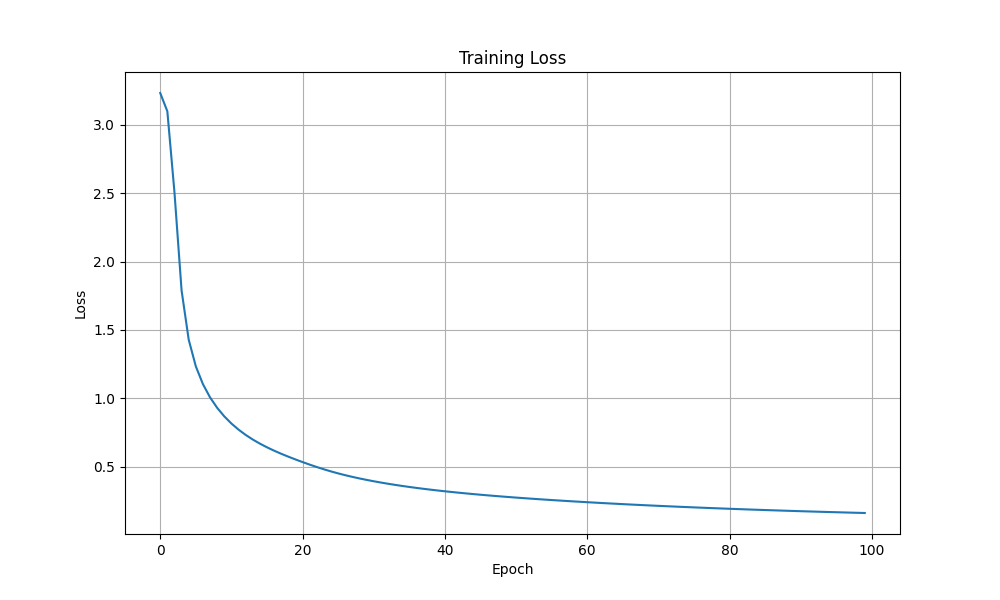
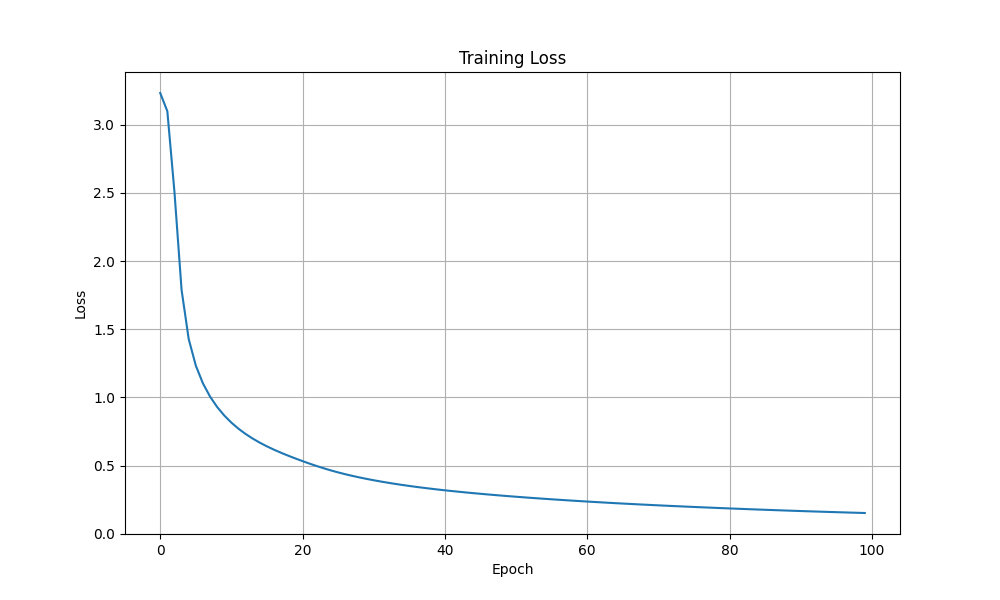
Enhance RNN implementation with detailed comments and improve training loss visualization

diff --git a/Sequence Modeling/RNN/rnn_scratch.py b/Sequence Modeling/RNN/rnn_scratch.py
@@ -11,8 +11,9 @@ T = 3    # Number of time steps
 np.random.seed(0)
 
 # Parameters initialization
+# Initialize with small random values to break symmetry
 W_hx = np.random.randn(n_h, n_x) * 0.01  # Input to hidden layer weights
-W_hh = np.random.randn(n_h, n_h) * 0.01  # Hidden to hidden layer weights
+W_hh = np.random.randn(n_h, n_h) * 0.01  # Hidden to hidden layer weights (recurrent connections)
 W_yh = np.random.randn(n_y, n_h) * 0.01  # Hidden to output layer weights
 
 b_h = np.zeros((n_h, 1))  # Hidden layer bias
@@ -20,57 +21,96 @@ b_y = np.zeros((n_y, 1))  # Output layer bias
 
 # Activation functions
 def tanh(x):
+    # Hyperbolic tangent: tanh(x) = (e^x - e^-x) / (e^x + e^-x)
+    # Range: [-1, 1]
     return np.tanh(x)
 
 def dtanh(x):
+    # Derivative of tanh: d/dx tanh(x) = 1 - tanh(x)^2
     return 1.0 - np.tanh(x) ** 2
 
 def softmax(x):
+    # Softmax function: σ(z)_j = e^(z_j) / Σ_k(e^(z_k))
+    # Subtracting max(x) for numerical stability to avoid overflow
     e_x = np.exp(x - np.max(x, axis=0, keepdims=True))
     return e_x / np.sum(e_x, axis=0, keepdims=True)
 
 def rnn_forward(X, Y):
-    h = {-1: np.zeros((n_h, 1))} # Initial hidden state
+    # Forward pass through the RNN
+    h = {-1: np.zeros((n_h, 1))}  # Initial hidden state h₀ = 0
     a, z, y_hat = {}, {}, {}
     loss = 0
 
     for t in range(T):
-        x_t = X[t].reshape(-1, 1)
+        x_t = X[t].reshape(-1, 1)  # Input at time t
+        
+        # Hidden state update: a_t = W_hx * x_t + W_hh * h_(t-1) + b_h
         a[t] = np.dot(W_hx, x_t) + np.dot(W_hh, h[t-1]) + b_h
+        
+        # Apply tanh activation: h_t = tanh(a_t)
         h[t] = np.tanh(a[t])
+        
+        # Output layer: z_t = W_yh * h_t + b_y
         z[t] = np.dot(W_yh, h[t]) + b_y
+        
+        # Apply softmax for probability distribution: y_hat_t = softmax(z_t)
         y_hat[t] = softmax(z[t])
-        loss += -np.sum(Y[t].reshape(-1, 1) * np.log(y_hat[t] + 1e-8))  # Avoid log(0)
+        
+        # Cross-entropy loss: L_t = -Σ(y_t * log(y_hat_t))
+        # 1e-8 added to avoid log(0)
+        loss += -np.sum(Y[t].reshape(-1, 1) * np.log(y_hat[t] + 1e-8))
 
+    # Save values for backpropagation
     cache = (X, Y, a, h, z, y_hat)
     return loss, cache
 
 def rnn_backward(cache):
+    # Backpropagation through time (BPTT)
     X, Y, a, h, z, y_hat = cache
 
+    # Initialize gradient accumulators
     dW_hx = np.zeros_like(W_hx)
     dW_hh = np.zeros_like(W_hh)
     db_h = np.zeros_like(b_h)
     dW_yh = np.zeros_like(W_yh)
     db_y = np.zeros_like(b_y)
 
+    # Initialize gradient of future hidden state
     dh_next = np.zeros_like(h[0])
     
+    # Iterate backwards through time
     for t in reversed(range(T)):
-        dz = y_hat[t] - Y[t].reshape(-1, 1)  # Gradient of loss w.r.t. z
+        # Gradient of loss w.r.t softmax output: dL/dz_t = y_hat_t - y_t
+        # This is the derivative of cross-entropy loss with softmax
+        dz = y_hat[t] - Y[t].reshape(-1, 1)
+        
+        # Gradient w.r.t W_yh: dL/dW_yh = dL/dz_t * h_t^T
         dW_yh += np.dot(dz, h[t].T)
+        
+        # Gradient w.r.t b_y: dL/db_y = dL/dz_t
         db_y += dz
         
-        dh = np.dot(W_yh.T, dz) + dh_next  # Gradient of loss w.r.t. h
+        # Gradient w.r.t hidden state: dL/dh_t = W_yh^T * dL/dz_t + dL/dh_(t+1)
+        # The second term comes from the recurrent connection (future gradient)
+        dh = np.dot(W_yh.T, dz) + dh_next
+        
+        # Gradient w.r.t pre-activation: dL/da_t = dL/dh_t * tanh'(a_t)
         da = dtanh(a[t]) * dh
+        
+        # Gradient w.r.t W_hh: dL/dW_hh = dL/da_t * h_(t-1)^T
         dW_hh += np.dot(da, h[t-1].T)
+        
+        # Gradient w.r.t W_hx: dL/dW_hx = dL/da_t * x_t^T
         dW_hx += np.dot(da, X[t].reshape(-1, 1).T)
+        
+        # Gradient w.r.t b_h: dL/db_h = dL/da_t
         db_h += da
+        
+        # Gradient for next iteration: dL/dh_(t-1) = W_hh^T * dL/da_t
         dh_next = np.dot(W_hh.T, da)
-        dh_next = dh_next * (1 - np.tanh(a[t]) ** 2)
-        # Note: We do not need to backpropagate through the input layer
-        # as we are not updating W_xh in this example.
-    # Clip gradients to prevent exploding gradients
+        
+    # Clip gradients to prevent exploding gradients problem
+    # This is a common technique in RNN training
     for dparam in [dW_hx, dW_hh, db_h, dW_yh, db_y]:
         np.clip(dparam, -5, 5, out=dparam)
         
@@ -86,11 +126,16 @@ def rnn_backward(cache):
 
 def update_parameters(gradients, learning_rate=0.01):
     """
-    Update the parameters using gradient descent
+    Update the parameters using gradient descent:
+    θ = θ - α * ∇J(θ)
+    where:
+    θ: parameter
+    α: learning rate
+    ∇J(θ): gradient of cost function w.r.t parameter
     """
     global W_hx, W_hh, b_h, W_yh, b_y
     
-    # Update parameters using gradient descent
+    # Update each parameter by subtracting the scaled gradient
     W_hx -= learning_rate * gradients['dW_hx']
     W_hh -= learning_rate * gradients['dW_hh']
     b_h -= learning_rate * gradients['db_h']
@@ -99,20 +144,24 @@ def update_parameters(gradients, learning_rate=0.01):
 
 def predict(X):
     """
-    Predict function for making predictions
+    Make predictions using the trained RNN model
+    Only performs the forward pass without computing loss
     """
     h = {}
-    h[-1] = np.zeros((n_h, 1))
+    h[-1] = np.zeros((n_h, 1))  # Initialize first hidden state to zeros
     y_hat = {}
     
     # Forward pass only
     for t in range(len(X)):
         x_t = X[t].reshape(-1, 1)
+        # h_t = tanh(W_hx * x_t + W_hh * h_(t-1) + b_h)
         h[t] = tanh(np.dot(W_hx, x_t) + np.dot(W_hh, h[t-1]) + b_h)
+        # z_t = W_yh * h_t + b_y
         z_t = np.dot(W_yh, h[t]) + b_y
+        # y_hat_t = softmax(z_t)
         y_hat[t] = softmax(z_t)
     
-    # Return predictions (class indices)
+    # Return class with highest probability for each time step
     predictions = [np.argmax(y_hat[t]) for t in range(len(X))]
     return predictions
 
@@ -133,8 +182,9 @@ def generate_toy_data(num_samples, sequence_length=T):
         # Create target labels (example rule: sum of inputs determines class)
         targets = []
         for t in range(sequence_length):
-            # Sum of input values > 0 => class 0
-            # Sum of input values < 0 => class 1
+            # Classification rule:
+            # Sum of input values > 0.5 => class 0
+            # Sum of input values < -0.5 => class 1
             # Otherwise => class 2
             input_sum = np.sum(sequence[t])
             if input_sum > 0.5:
@@ -144,7 +194,7 @@ def generate_toy_data(num_samples, sequence_length=T):
             else:
                 target = 2
                 
-            # One-hot encode
+            # One-hot encode the target: [1,0,0] for class 0, [0,1,0] for class 1, [0,0,1] for class 2
             one_hot = np.zeros(n_y)
             one_hot[target] = 1
             targets.append(one_hot)
@@ -156,7 +206,7 @@ def generate_toy_data(num_samples, sequence_length=T):
 # Train the RNN model
 def train_rnn(X_data, Y_data, num_epochs=100, learning_rate=0.01):
     """
-    Train the RNN model with the provided data
+    Train the RNN model with the provided data using gradient descent
     """
     losses = []
     
@@ -167,17 +217,17 @@ def train_rnn(X_data, Y_data, num_epochs=100, learning_rate=0.01):
             X = X_data[i]
             Y = Y_data[i]
             
-            # Forward pass
+            # Forward pass: compute loss L(θ)
             loss, cache = rnn_forward(X, Y)
             epoch_loss += loss
             
-            # Backward pass
+            # Backward pass: compute gradients ∇L(θ)
             gradients = rnn_backward(cache)
             
-            # Update parameters
+            # Update parameters: θ = θ - α * ∇L(θ)
             update_parameters(gradients, learning_rate)
         
-        # Track progress
+        # Track average loss per epoch
         avg_loss = epoch_loss / len(X_data)
         losses.append(avg_loss)
         
@@ -190,6 +240,7 @@ def train_rnn(X_data, Y_data, num_epochs=100, learning_rate=0.01):
 def evaluate_model(X_test, Y_test):
     """
     Evaluate the model's performance
+    Accuracy = (Number of correct predictions) / (Total number of predictions)
     """
     correct = 0
     total = 0
@@ -198,18 +249,19 @@ def evaluate_model(X_test, Y_test):
         X = X_test[i]
         Y = Y_test[i]
         
-        # Get predictions
+        # Get model predictions
         predictions = predict(X)
         
-        # Get true labels
+        # Get true labels from one-hot encoded targets
         true_labels = [np.argmax(Y[t]) for t in range(len(Y))]
         
-        # Count correct predictions
+        # Count correct predictions across all time steps
         for t in range(len(predictions)):
             if predictions[t] == true_labels[t]:
                 correct += 1
             total += 1
     
+    # Accuracy = correct / total
     accuracy = correct / total
     return accuracy
 
